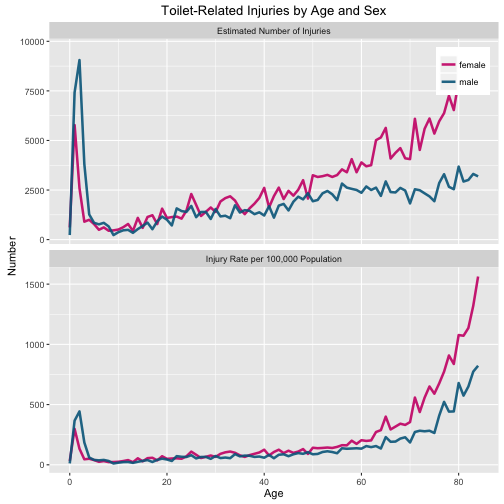
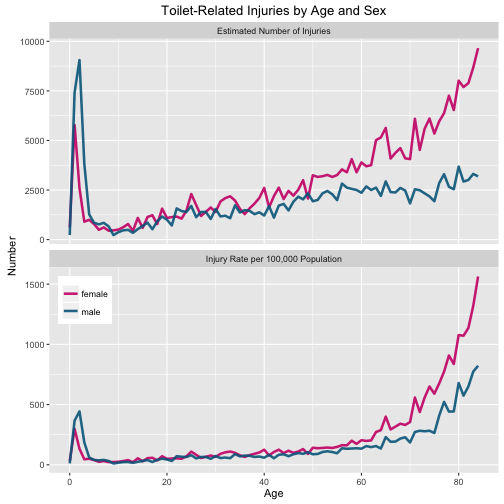
Use weights for summing NEISS

Changed region(s): [[0.0893, 0.5357, 0.2381, 0.6548], [0.8631, 0.0893, 0.9821, 0.2083]]

diff --git a/_posts/2016-02-19-Your-Floor.md b/_posts/2016-02-19-Your-Floor.md
@@ -317,7 +317,8 @@ ggplot(data = totalinjuries,
         facet_wrap(~variable, ncol = 1, scales = "free_y") + 
         geom_line(size = 1.2, alpha = 0.9) +
         scale_color_manual(values = c("deeppink3", "deepskyblue4")) + 
-        theme(legend.title=element_blank(), legend.justification=c(1,1), legend.position=c(1,1)) +
+        theme(legend.title=element_blank(), legend.justification=c(0,0.38), 
+              legend.position=c(0,0.38)) +
         ylab("Number") + xlab("Age") + 
         ggtitle("Toilet-Related Injuries by Age and Sex")
 {% endhighlight %}
